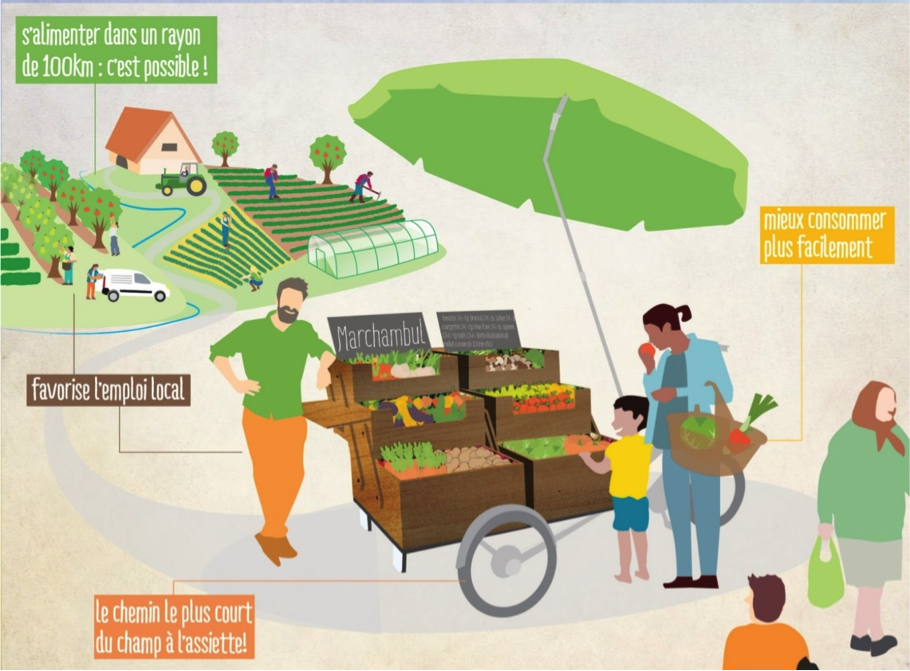
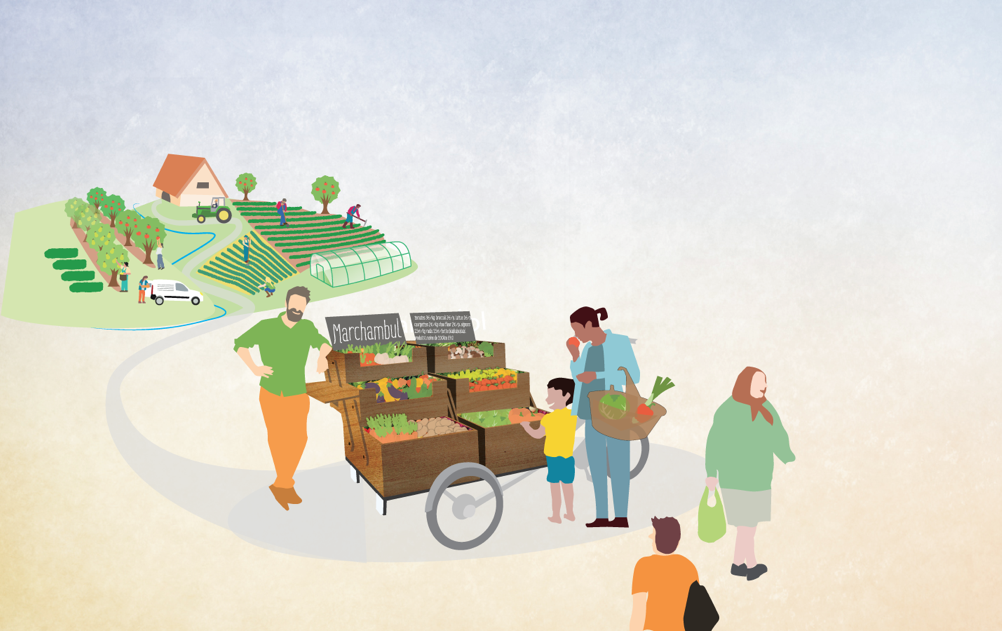
add images

diff --git a/src/scss/intro.scss b/src/scss/intro.scss
@@ -9,7 +9,10 @@ $intro-color: $black_80;
 	color: $intro-color;
 	background-image: url(/img/main.png);
 	background-size: cover;
-	height: calc(100vh - 50px);
+	height: calc(100vh);
+	@media (max-width:1200px){
+		background-image: url(/img/main_small.png);
+	}
 
 	#intro-message {
 		margin-left: 50%;
